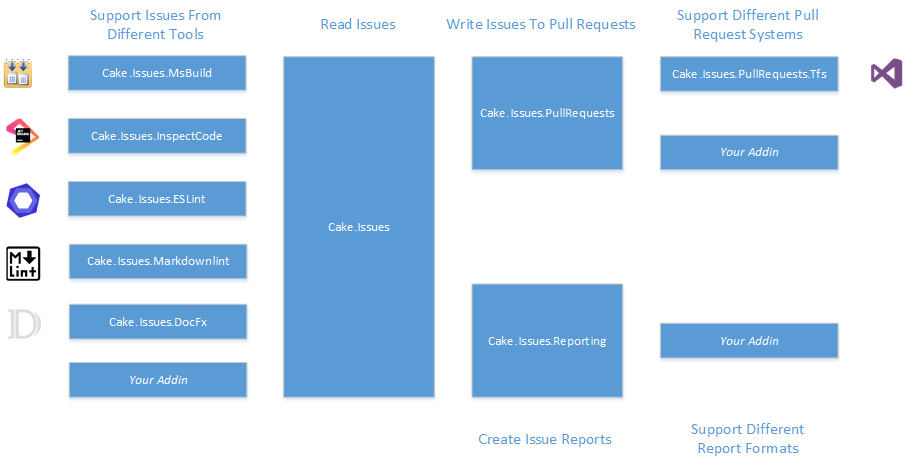
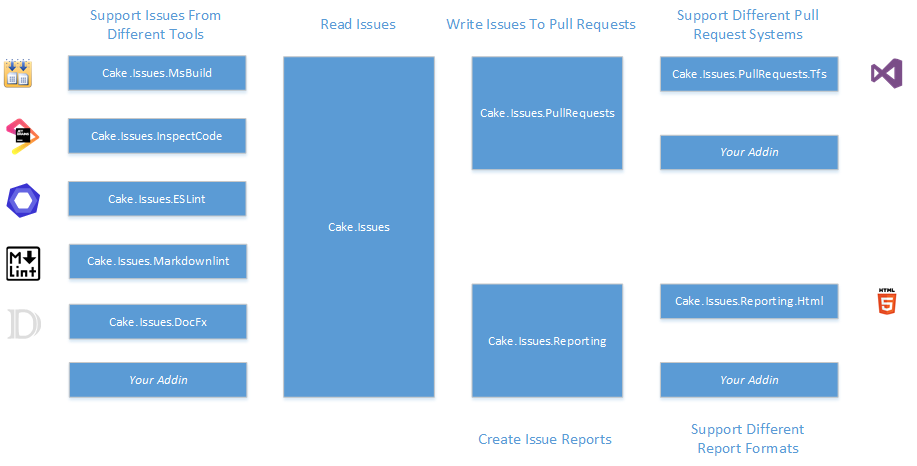
Add documentation for Cake.Issues.Reporting.Html

Changed region(s): [[0.7023, 0.6009, 0.916, 0.8712], [0.9466, 0.6009, 0.9771, 0.691]]

diff --git a/input/docs/report-formats/html/examples.md b/input/docs/report-formats/html/examples.md
@@ -1,0 +1,44 @@
+---
+Order: 30
+Title: Examples
+Description: Examples for using the Cake.Issues.Reporting.Html addin.
+---
+The following example will create a HTML report for issues logged as warnings by MsBuild.
+
+```csharp
+#tool "nuget:?package=MSBuild.Extension.Pack"
+#addin "Cake.Issues"
+#addin "Cake.Issues.MsBuild"
+#addin "Cake.Reporting"
+#addin "Cake.Reporting.Html"
+
+Task("Create-IssueReport").Does(() =>
+{
+    var repoRootFolder = new DirectoryPath(@"c:\repo");
+
+    // Build MySolution.sln solution in the repository root folder and log issues
+    // using XmlFileLogger from MSBuild Extension Pack.
+    FilePath msBuildLogFile = @"c:\build\msbuild.log";
+    var settings = new MsBuildSettings()
+        .WithLogger(
+            Context.Tools.Resolve("MSBuild.ExtensionPack.Loggers.dll").FullPath,
+            "XmlFileLogger",
+            string.Format(
+                "logfile=\"{0}\";verbosity=Detailed;encoding=UTF-8",
+                msBuildLogFile)
+        );
+    MSBuild(repoRootFolder.CombineWithFilePath("MySolution.sln"), settings);
+
+    // Create HTML report using Diagnostic template.
+    CreateIssueReport(
+        new List<IIssueProvider>
+        {
+            MsBuildIssuesFromFilePath(
+                msBuildLogFile,
+                MsBuildXmlFileLoggerFormat)
+        },
+        HtmlIssueReportFormatFromEmbeddedTemplate(HtmlIssueReportTemplate.Diagnostic),
+        repoRootFolder,
+        @"c:\report.html");
+});
+```

diff --git a/input/docs/report-formats/html/features.md b/input/docs/report-formats/html/features.md
@@ -1,0 +1,12 @@
+---
+Order: 20
+Title: Features
+Description: Features of the Cake.Issues.Reporting.Html addin.
+---
+The [Cake.Issues.Reporting.Html addin] provides the following features:
+
+* Creates HTML reports.
+* Provides out of the box templates
+* Possibility to use custom templates using Razor
+
+[Cake.Issues.Reporting.Html addin]: https://www.nuget.org/packages/Cake.Issues.Reporting.Html

diff --git a/input/docs/report-formats/html/requirements.md b/input/docs/report-formats/html/requirements.md
@@ -1,0 +1,10 @@
+---
+Order: 10
+Title: Requirements
+Description: Requirements for the Cake.Issues.Reporting.Html addin.
+---
+To use the [Cake.Issues.Reporting.Html addin] the following requirements need to be fulfilled:
+
+* Cake 0.16.2 or newer.
+
+[Cake.Issues.Reporting.Html addin]: https://www.nuget.org/packages/Cake.Issues.Reporting.Html
